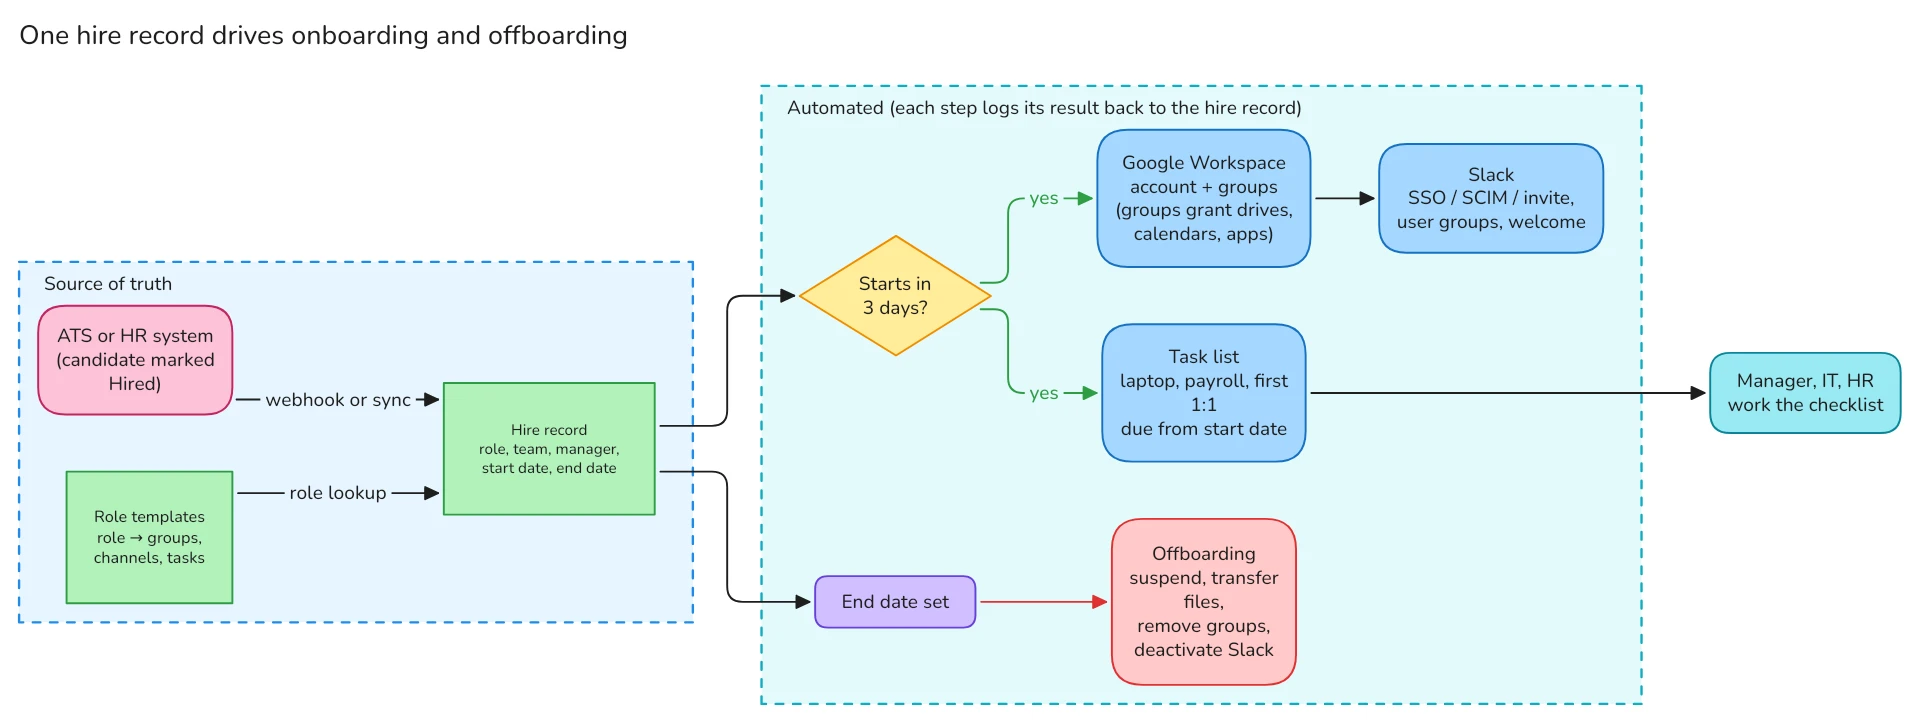
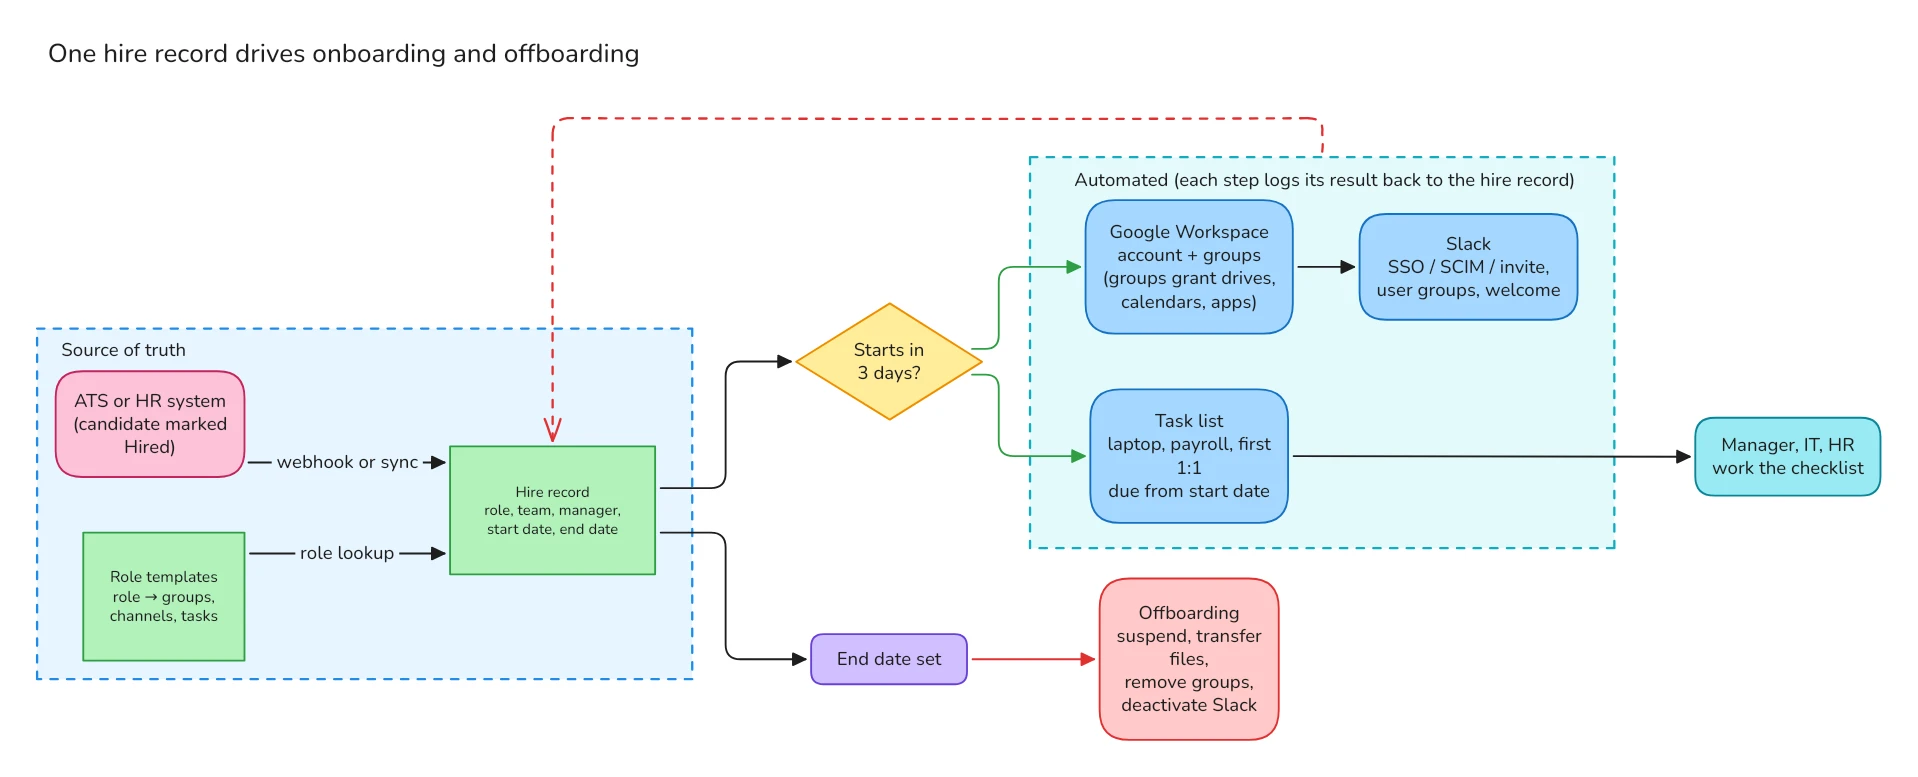
Update AA-004 diagram with Doug's edits
Claude-Session: https://claude.ai/code/session_01AQpSnfQKvYPrP31gZCJkLP

diff --git a/src/content/blog/automate-employee-onboarding.md b/src/content/blog/automate-employee-onboarding.md
@@ -46,7 +46,7 @@ Manual onboarding fails quietly. Each missed step costs only an hour or a day, s
 
 You don't need a new HR platform to do this well. You need four pieces, and most teams already pay for three of them.
 
-![Flow diagram: an ATS or HR system and role templates feed one hire record. Three days before the start date, automation creates the Google Workspace account and groups, then the Slack account, and creates a task list for the manager, IT and HR. When an end date is set, offboarding suspends the account, transfers files, removes groups and deactivates Slack.](/images/insights/automate-employee-onboarding-flow.webp)
+![Flow diagram: an ATS or HR system and role templates feed one hire record. Three days before the start date, automation creates the Google Workspace account and groups, then the Slack account, and creates a task list for the manager, IT and HR. When an end date is set, offboarding suspends the account, transfers files, removes groups and deactivates Slack. A dashed arrow shows each automated step writing its result back to the hire record.](/images/insights/automate-employee-onboarding-flow.webp)
 
 *One hire record drives both onboarding and offboarding. Every automated step writes its result back to the record.*
 
